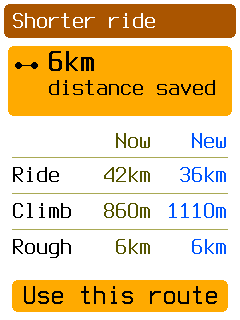
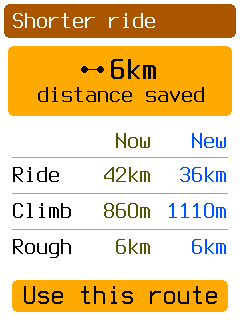
docs: refresh aligned easier route captures

Changed region(s): [[0.1458, 0.1562, 0.9042, 0.3438], [0.0583, 0.1875, 0.175, 0.2188]]

diff --git a/docs/assets/ride-assistant/easier-route/README.md b/docs/assets/ride-assistant/easier-route/README.md
@@ -11,7 +11,9 @@ Up/Down browses Less climbing, Smoother surface, and Shorter ride. The camera st
 The current route is magenta; the candidate is blue. Comparison lines are thinner than the
 normal navigation line. Start and finish have symbols, without a legend or additional labels.
 
-The amber card shows the goal, a small pictogram, a large saving, and a short caption. Select
+The amber card centers its title and caption. The pictogram and large saving form one centered
+row, with the icon aligned to the number's visible height. Both pages use the same spacing
+rule: 8 px between rows, with the content centered vertically in its card. Select
 opens the current/new cost table. The saving stays above the table. The review omits the
 same-destination sentence and a separate negative headline. Tradeoffs remain in the table.
 Back preserves the selected alternative. **Use this route** activates its prepared route and
@@ -71,3 +73,11 @@ and routing. The requested adversarial review belongs to that future epic stage.
 
 Full CI, the full UI snapshot sweep, resource measurement, board builds, and flashing were
 omitted. This is an opt-in simulator prototype; no codec or routing backend is introduced.
+
+### Alignment refinement
+
+`cargo clippy -p obc-app --all-targets -- -D warnings`, `cargo build -p obc-sim`, workspace and
+standalone-root formatting, `python3 docs/build_docs.py --check-links`, and `git diff --check`
+passed. All six named captures were refreshed and inspected. The comparison table is unchanged.
+Unit tests, full snapshot sweeps, resource checks, and board builds were not repeated for this
+layout-only adjustment.
